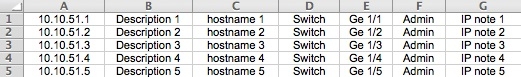
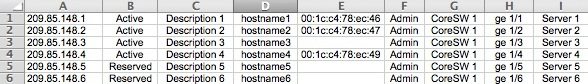
Added MAC and state to import
git-svn-id: svn://svn.code.sf.net/p/phpipam/code@67 d9489115-519a-4661-88eb-0d2216f09706

diff --git a/functions/functions.php b/functions/functions.php
@@ -2777,13 +2777,19 @@ function importCSVline ($line, $subnetId)
     	return false;
     }
     
+    /* reformat state */
+    switch($line[5]) {
+    	case "Active": 		$line[5] = "1";	break;
+    	case "Reserved": 	$line[5] = "2";	break;
+    	case "Offline": 	$line[5] = "0";	break;
+    }
     
 	
 	/* all ok, set query */
 	$query  = "insert into ipaddresses ";
-	$query .= "(`subnetId`, `ip_addr`, `description`, `dns_name`, `switch`, `port`, `owner`, `note` ) ";
+	$query .= "(`subnetId`, `ip_addr`, `state`, `description`, `dns_name`, `mac`, `owner`, `switch`, `port`, `note` ) ";
 	$query .= "values ";
-	$query .= "('". $subnetId ."', '". Transform2decimal( $line[0] ) ."', '". $line[1] ."', '". $line[2] ."', '". $line[3] ."', '". $line[4] ."', '". $line[5] ."', '". $line[6] ."');";
+	$query .= "('". $subnetId ."', '". Transform2decimal( $line[0] ) ."', '". $line[1] ."', '". $line[2] ."', '". $line[3] ."', '". $line[4] ."', '". $line[5] ."', '". $line[6] ."', '". $line[7] ."', '". $line[8] ."');";
 	
 	/* set log details */
 	$log = prepareLogFromArray ($line);

diff --git a/site/admin/CSVimportShowFile.php b/site/admin/CSVimportShowFile.php
@@ -31,7 +31,7 @@ else {
 	
 	//get all to array!
 	for($m=0; $m < $numRows; $m++) {
-		$outFile[] = $data->val($m,'A') . ',' . $data->val($m,'B'). ',' . $data->val($m,'C'). ',' . $data->val($m,'D'). ',' . $data->val($m,'E'). ',' . $data->val($m,'F'). ',' . $data->val($m,'G');
+		$outFile[] = $data->val($m,'A') . ',' . $data->val($m,'B'). ',' . $data->val($m,'C'). ',' . $data->val($m,'D'). ',' . $data->val($m,'E'). ',' . $data->val($m,'F'). ',' . $data->val($m,'G') . ',' . $data->val($m,'H') . ',' . $data->val($m,'I');
 	}
 	/* 	echo $data->dump(false,false); */
 }
@@ -44,13 +44,15 @@ print '<div class="normalTable">';
 print '<table class="normalTable">';
 
 /* headers */
-print '<tr>';
+print '<tr class="th">';
 print '	<th>IP</th>';
+print '	<th>Status</th>';
 print '	<th>Description</th>';
 print '	<th>Hostname</th>';
+print '	<th>MAC</th>';
+print '	<th>Owner</th>';
 print '	<th>Switch</th>';
 print '	<th>Port</th>';
-print '	<th>Owner</th>';
 print '	<th>Note</th>';
 print '</tr>';
 

diff --git a/site/admin/CSVimportSubmit.php b/site/admin/CSVimportSubmit.php
@@ -37,7 +37,7 @@ else {
 	
 		//IP must be present!
 		if($data->val($m,'A') > 4 ) {
-			$outFile[] = $data->val($m,'A') . ',' . $data->val($m,'B'). ',' . $data->val($m,'C'). ',' . $data->val($m,'D'). ',' . $data->val($m,'E'). ',' . $data->val($m,'F'). ',' . $data->val($m,'G');
+			$outFile[] = $data->val($m,'A') . ',' . $data->val($m,'B'). ',' . $data->val($m,'C'). ',' . $data->val($m,'D'). ',' . $data->val($m,'E'). ',' . $data->val($m,'F'). ',' . $data->val($m,'G'). ',' . $data->val($m,'H'). ',' . $data->val($m,'I');
 		}
 	}
 }

diff --git a/site/admin/CSVimport.php b/site/admin/CSVimport.php
@@ -24,7 +24,7 @@ CheckReferrer();
 <h3>XLS / CSV subnet import</h3>
 
 <!-- notes -->
-To successfully import data please use the following XLS/CSV structure:<br>( ip | Desc | hostname | Switch | Port | Owner | Note )
+To successfully import data please use the following XLS/CSV structure:<br>( ip | State | Description | hostname | MAC | Owner | Switch | Port | Note )
 <br>
 <img src="css/images/csvuploadexample.jpg" style="border:1px solid #999999">
 <br>
